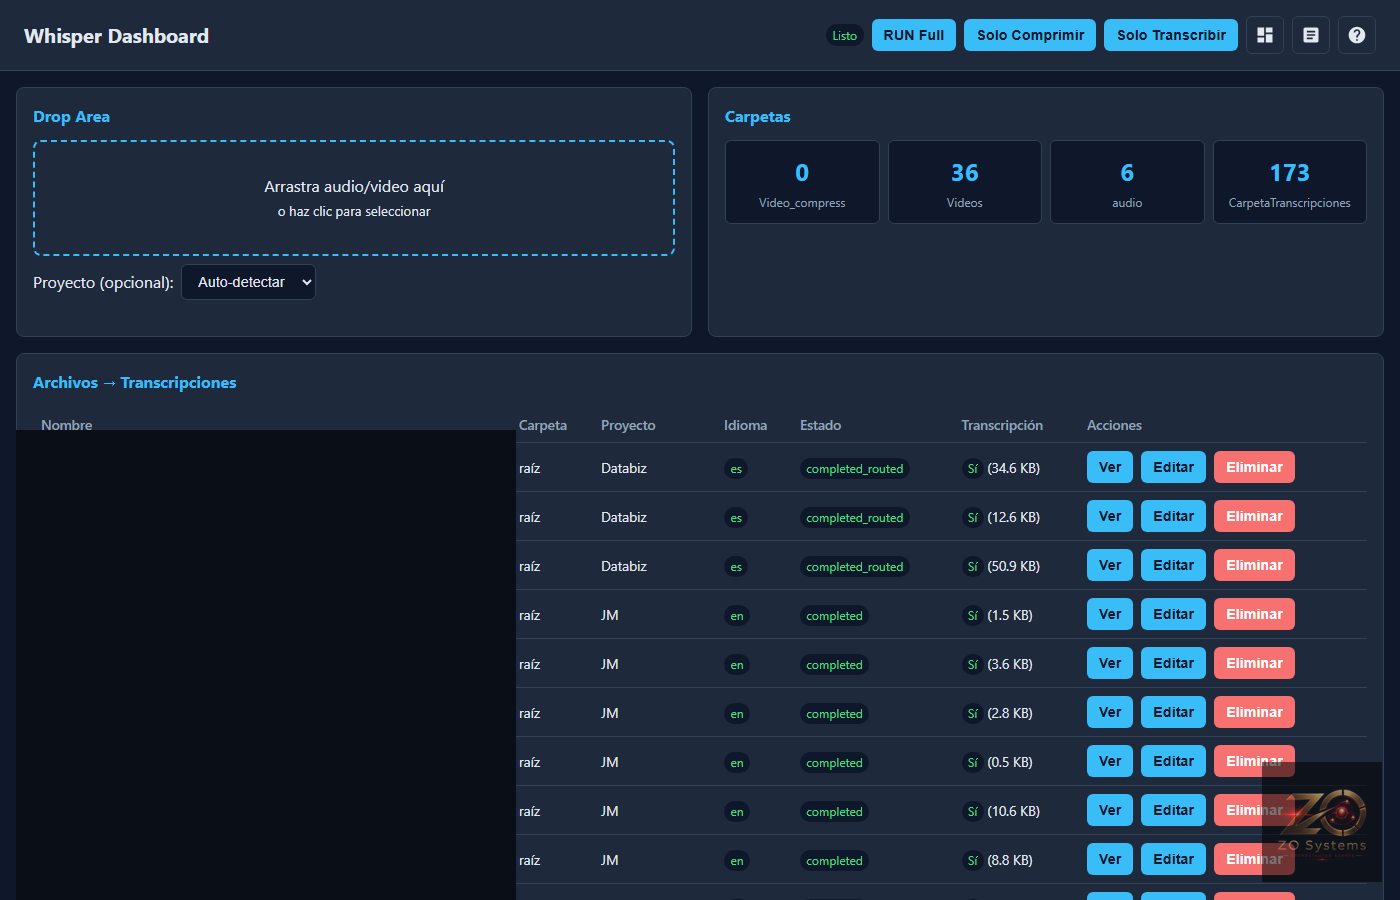
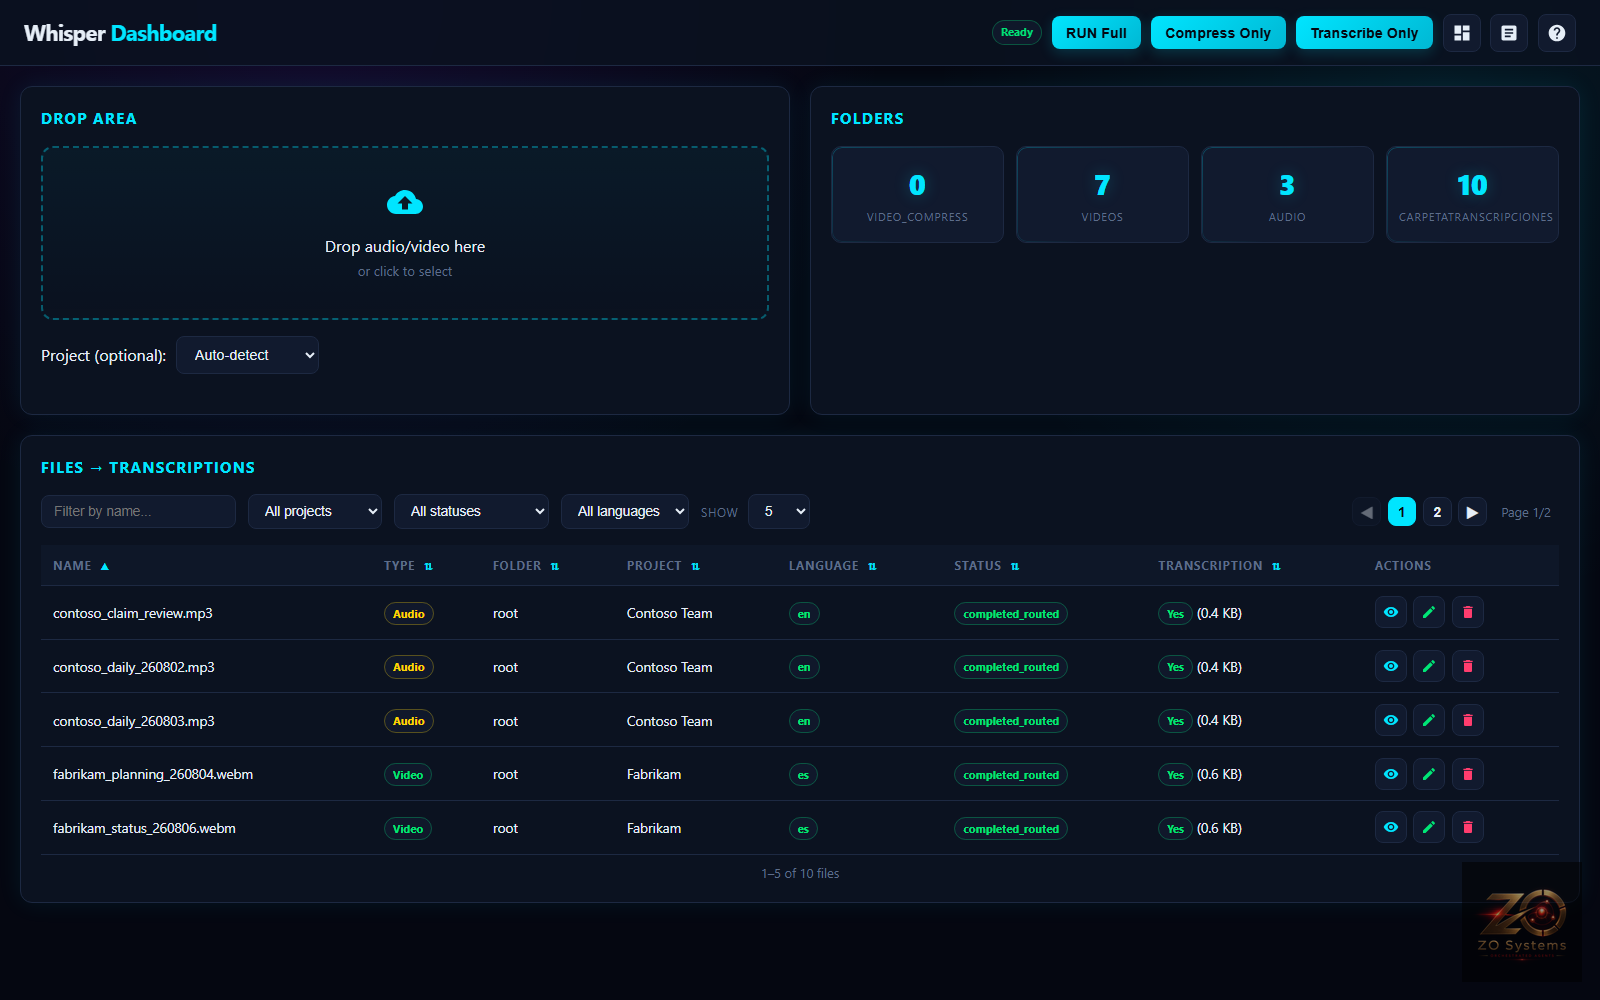
Fix leaked client names in dashboard.html and smoke test, retake screenshots with mock data
The Help modal in dashboard.html had real client project prefixes/names
hardcoded (clienta_, clientb_), and tests/e2e/smoke_dashboard.py filtered
by the real "ClientB" project name — both already public. Replaced with
the anonymized example names (Northwind/Contoso/Fabrikam) used elsewhere.

Retook all dashboard screenshots against fully synthetic data
(docs/assets/generate_mock_data.py) instead of redacted real client
screenshots, so no real meeting content or participant data is exposed
even indirectly.

diff --git a/src/transcript_pipeline/dashboard/templates/dashboard.html b/src/transcript_pipeline/dashboard/templates/dashboard.html
@@ -366,8 +366,19 @@
         .pagination.top {
             margin-top: 0;
             justify-content: flex-end;
-            flex: 1;
-            min-width: 280px;
+            flex: 1 1 auto;
+            min-width: 300px;
+            min-height: 2rem;
+        }
+        .pagination.top button {
+            min-width: 1.8rem;
+            height: 1.8rem;
+            padding: 0 0.4rem;
+        }
+        .pagination.top button {
+            min-width: 1.8rem;
+            height: 1.8rem;
+            padding: 0 0.4rem;
         }
         .pagination button {
             min-width: 2rem;
@@ -621,7 +632,6 @@
                 <div id="filesPaginationTop" class="pagination top"></div>
             </div>
             <div id="filesList"></div>
-            <div id="filesPagination" class="pagination"></div>
         </div>
     </div>
 
@@ -725,11 +735,12 @@
                 </ul>
 
                 <h3>Project prefixes</h3>
+                <p>Defined per project in <code>projects.json</code> (see <code>projects.json.example</code>). Example:</p>
                 <ul>
                     <li><code>zo_</code> → Zo Interviews</li>
-                    <li><code>clienta_</code> → ClientA</li>
-                    <li><code>jm_</code> → JM</li>
-                    <li><code>clientb_</code> → ClientB</li>
+                    <li><code>northwind_</code> → Northwind</li>
+                    <li><code>contoso_</code> → Contoso Team</li>
+                    <li><code>fabrikam_</code> → Fabrikam</li>
                     <li><code>meeting_</code>, <code>junta_</code> → Dev Meetings</li>
                     <li><code>tutorial</code> in the name → Tutorials</li>
                 </ul>
@@ -903,9 +914,9 @@
             const bottom = document.getElementById('filesPagination');
             const top = document.getElementById('filesPaginationTop');
             const html = buildPaginationHtml(page, totalPages, total);
-            bottom.innerHTML = html;
-            top.innerHTML = html;
-            if (totalPages <= 1) { bottom.innerHTML = ''; top.innerHTML = ''; }
+            if (top) top.innerHTML = html;
+            if (bottom) bottom.innerHTML = html;
+            if (totalPages <= 1) { if (top) top.innerHTML = ''; if (bottom) bottom.innerHTML = ''; }
         }
 
         function buildPaginationHtml(page, totalPages, total) {

diff --git a/docs/assets/generate_mock_data.py b/docs/assets/generate_mock_data.py
@@ -1,0 +1,132 @@
+"""Script de un solo uso: genera archivos mock (video/audio + transcripciones
+falsas) para tomar screenshots del dashboard sin usar datos reales de clientes.
+Reversible: ver cleanup_mock_data.py.
+"""
+from __future__ import annotations
+
+import json
+import subprocess
+from datetime import datetime
+from pathlib import Path
+
+ROOT = Path(__file__).resolve().parents[2]
+AUDIO = ROOT / "audio"
+VIDEOS = ROOT / "Videos"
+TRANSCRIPTIONS = ROOT / "CarpetaTranscripciones"
+PROCESSED_DB = ROOT / "processed_files.json"
+
+FAKE_TRANSCRIPT_ES = (
+    "Buenos días equipo, empecemos con el repaso del sprint. Terminamos la "
+    "integración del endpoint de autenticación y quedó pendiente el ajuste de "
+    "paginación en el listado principal. El pipeline de CI ya corre las pruebas "
+    "unitarias en cada pull request, falta agregar las de integración. "
+    "Sobre el bug reportado ayer, ya identificamos que era un problema de caché "
+    "en el cliente, se corrige con invalidación al guardar. Para el próximo "
+    "sprint priorizamos la migración del servicio de notificaciones y "
+    "la documentación de la API interna. ¿Alguna duda antes de cerrar?"
+)
+
+FAKE_TRANSCRIPT_EN = (
+    "Good morning everyone, let's go through the sprint review. We finished the "
+    "authentication endpoint integration, pagination on the main list is still "
+    "pending. CI already runs unit tests on every pull request, integration "
+    "tests are next. About yesterday's bug, it was a client-side caching issue, "
+    "fixed with invalidation on save. Next sprint we're prioritizing the "
+    "notification service migration and internal API docs. Any questions "
+    "before we wrap up?"
+)
+
+# (relative_path, language, transcript, duration_sec)
+MOCK_FILES: list[tuple[str, str, str, float]] = [
+    ("Videos/py_northwind/northwind_standup_260801.mp4", "en", FAKE_TRANSCRIPT_EN, 612.0),
+    ("Videos/py_northwind/northwind_planning_260805.mp4", "en", FAKE_TRANSCRIPT_EN, 754.0),
+    ("Videos/py_zo/zo_interview_acme.mp4", "es", FAKE_TRANSCRIPT_ES, 1834.0),
+    ("audio/py_contoso/contoso_daily_260802.mp3", "en", FAKE_TRANSCRIPT_EN, 320.0),
+    ("audio/py_contoso/contoso_daily_260803.mp3", "en", FAKE_TRANSCRIPT_EN, 298.0),
+    ("audio/py_contoso/contoso_claim_review.mp3", "en", FAKE_TRANSCRIPT_EN, 415.0),
+    ("Videos/py_meetings/meeting_arquitectura_260803.webm", "es", FAKE_TRANSCRIPT_ES, 2635.0),
+    ("Videos/py_fabrikam/fabrikam_planning_260804.webm", "es", FAKE_TRANSCRIPT_ES, 2151.0),
+    ("Videos/py_fabrikam/fabrikam_status_260806.webm", "es", FAKE_TRANSCRIPT_ES, 1897.0),
+    ("Videos/mi_tutorial_deploy_pipeline.mp4", "es", FAKE_TRANSCRIPT_ES, 980.0),
+]
+
+
+def make_media(path: Path, duration: float) -> None:
+    path.parent.mkdir(parents=True, exist_ok=True)
+    clip_len = 6  # segundos reales del clip de prueba (loop no hace falta, solo necesitamos que cargue)
+    if path.suffix.lower() == ".mp3":
+        cmd = [
+            "ffmpeg", "-y", "-f", "lavfi", "-i", f"anullsrc=r=44100:cl=mono",
+            "-t", str(clip_len), str(path),
+        ]
+    else:
+        vcodec = "libvpx-vp9" if path.suffix.lower() == ".webm" else "libx264"
+        cmd = [
+            "ffmpeg", "-y", "-f", "lavfi", "-i", f"testsrc=size=640x360:rate=15",
+            "-f", "lavfi", "-i", "anullsrc=r=44100:cl=mono",
+            "-t", str(clip_len), "-c:v", vcodec, "-pix_fmt", "yuv420p", str(path),
+        ]
+    subprocess.run(cmd, check=True, capture_output=True)
+
+
+def make_transcription(rel_path: str, language: str, text: str, duration: float) -> None:
+    media_path = ROOT / rel_path
+    base = Path(rel_path)
+    is_video = base.parts[0] == "Videos"
+    src_base = VIDEOS if is_video else AUDIO
+    rel_to_base = media_path.relative_to(src_base)
+    out_folder = TRANSCRIPTIONS / rel_to_base.parent
+    out_folder.mkdir(parents=True, exist_ok=True)
+
+    stem = media_path.stem
+    (out_folder / f"{stem}.txt").write_text(text, encoding="utf-8")
+
+    metadata = {
+        "audio_file": str(media_path),
+        "language": language,
+        "duration": duration,
+        "processing_time": round(duration * 0.18, 1),
+        "processed_at": datetime.now().isoformat(),
+        "segments_count": 1,
+    }
+    (out_folder / f"{stem}_metadata.json").write_text(
+        json.dumps(metadata, indent=2, ensure_ascii=False), encoding="utf-8"
+    )
+
+    segments_data = {
+        **metadata,
+        "text": text,
+        "segments": [{"start": 0.0, "end": duration, "text": text}],
+    }
+    (out_folder / f"{stem}_segments.json").write_text(
+        json.dumps(segments_data, indent=2, ensure_ascii=False), encoding="utf-8"
+    )
+
+
+def mark_processed(rel_path: str) -> None:
+    db = json.loads(PROCESSED_DB.read_text(encoding="utf-8")) if PROCESSED_DB.exists() else {}
+    media_path = ROOT / rel_path
+    key = str(media_path.absolute())
+    db[key] = {
+        "path": key,
+        "name": media_path.name,
+        "size": media_path.stat().st_size if media_path.exists() else 0,
+        "date": datetime.now().isoformat(),
+        "status": "completed_routed",
+        "hash": "mockdata00000000",
+    }
+    PROCESSED_DB.write_text(json.dumps(db, indent=2, ensure_ascii=False), encoding="utf-8")
+
+
+def main() -> None:
+    for rel_path, language, text, duration in MOCK_FILES:
+        path = ROOT / rel_path
+        print(f"[MOCK] {rel_path}")
+        make_media(path, duration)
+        make_transcription(rel_path, language, text, duration)
+        mark_processed(rel_path)
+    print("[OK] Datos mock generados.")
+
+
+if __name__ == "__main__":
+    main()

diff --git a/docs/assets/cleanup_mock_data.py b/docs/assets/cleanup_mock_data.py
@@ -1,0 +1,46 @@
+"""Revierte exactamente lo que genera generate_mock_data.py."""
+from __future__ import annotations
+
+import json
+from pathlib import Path
+
+from generate_mock_data import MOCK_FILES, ROOT, PROCESSED_DB, VIDEOS, AUDIO, TRANSCRIPTIONS
+
+
+def main() -> None:
+    db = json.loads(PROCESSED_DB.read_text(encoding="utf-8")) if PROCESSED_DB.exists() else {}
+
+    for rel_path, *_ in MOCK_FILES:
+        media_path = ROOT / rel_path
+        base = Path(rel_path)
+        is_video = base.parts[0] == "Videos"
+        src_base = VIDEOS if is_video else AUDIO
+        rel_to_base = media_path.relative_to(src_base)
+        out_folder = TRANSCRIPTIONS / rel_to_base.parent
+        stem = media_path.stem
+
+        for f in [media_path, out_folder / f"{stem}.txt",
+                  out_folder / f"{stem}_metadata.json", out_folder / f"{stem}_segments.json"]:
+            if f.exists():
+                f.unlink()
+                print(f"[DEL] {f}")
+
+        key = str(media_path.absolute())
+        db.pop(key, None)
+
+        # limpiar carpetas vacias que haya creado el mock
+        try:
+            media_path.parent.rmdir()
+        except OSError:
+            pass
+        try:
+            out_folder.rmdir()
+        except OSError:
+            pass
+
+    PROCESSED_DB.write_text(json.dumps(db, indent=2, ensure_ascii=False), encoding="utf-8")
+    print("[OK] Datos mock eliminados, processed_files.json restaurado.")
+
+
+if __name__ == "__main__":
+    main()

diff --git a/tests/e2e/smoke_dashboard.py b/tests/e2e/smoke_dashboard.py
@@ -73,7 +73,7 @@ def main() -> int:
         all_ok &= check("pagination_visible", page.locator("#filesPagination button").count() > 0)
 
         # Filter by project
-        page.locator("#projectFilter").select_option("ClientB")
+        page.locator("#projectFilter").select_option("Fabrikam")
         page.wait_for_timeout(400)
         filtered_rows = page.locator("#filesList table tbody tr").count()
         all_ok &= check("filtro_proyecto", filtered_rows > 0 and filtered_rows <= 5, f"{filtered_rows} filas")
@@ -118,7 +118,7 @@ def main() -> int:
         screenshot(page, "preview")
 
         # Search + highlight
-        page.locator("#txSearch").fill("ClientB")
+        page.locator("#txSearch").fill("Fabrikam")
         page.wait_for_timeout(600)
         marks = page.locator("#transcriptList .segment mark").count()
         count_text = page.locator("#searchCount").text_content() or ""

diff --git a/README.md b/README.md
@@ -175,15 +175,19 @@ python dashboard.py
 # → http://localhost:5000
 ```
 
-| Home | Editor de transcripción | Insights |
+| Home | Preview + Insights | Búsqueda en transcripción |
 |---|---|---|
-| ![home](docs/screenshots/dashboard_home.png) | ![edit](docs/screenshots/dashboard_edit.png) | ![insights](docs/screenshots/dashboard_insights.png) |
+| ![home](docs/screenshots/dashboard_home.png) | ![preview](docs/screenshots/dashboard_preview.png) | ![editor](docs/screenshots/dashboard_editor.png) |
 
-| Proyectos (CRUD) | Logs | Guía de uso |
+| Frames extraídos | Editar transcripción | Proyectos (CRUD) |
 |---|---|---|
-| ![projects](docs/screenshots/dashboard_projects.png) | ![logs](docs/screenshots/dashboard_logs.png) | ![help](docs/screenshots/dashboard_help.png) |
+| ![frames](docs/screenshots/dashboard_frames.png) | ![edit](docs/screenshots/dashboard_edit.png) | ![projects](docs/screenshots/dashboard_projects.png) |
 
-*Nombres de archivos y participantes redactados — son datos reales de proyectos de clientes.*
+| Logs | Guía de uso |
+|---|---|
+| ![logs](docs/screenshots/dashboard_logs.png) | ![help](docs/screenshots/dashboard_help.png) |
+
+*Capturas con datos 100% ficticios (`docs/assets/generate_mock_data.py`) — ningún archivo, nombre o transcripción de cliente real aparece aquí.*
 
 ## Testing
 
